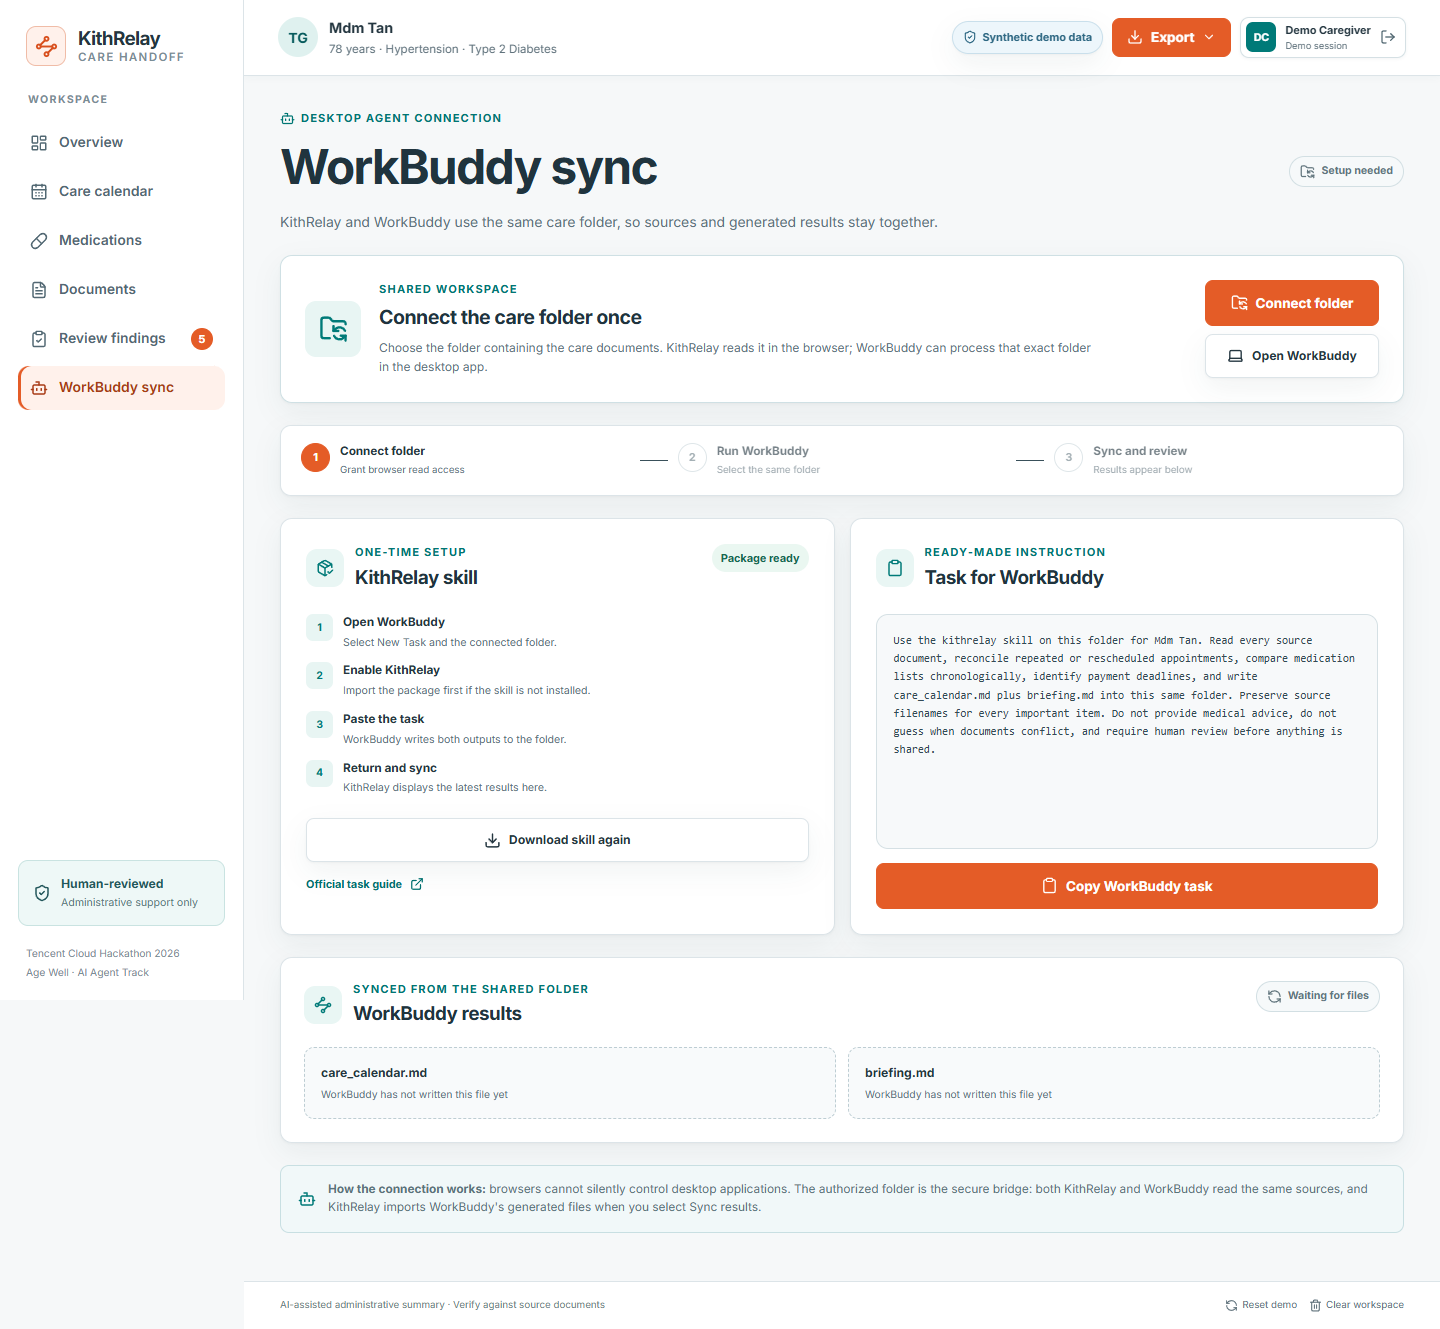
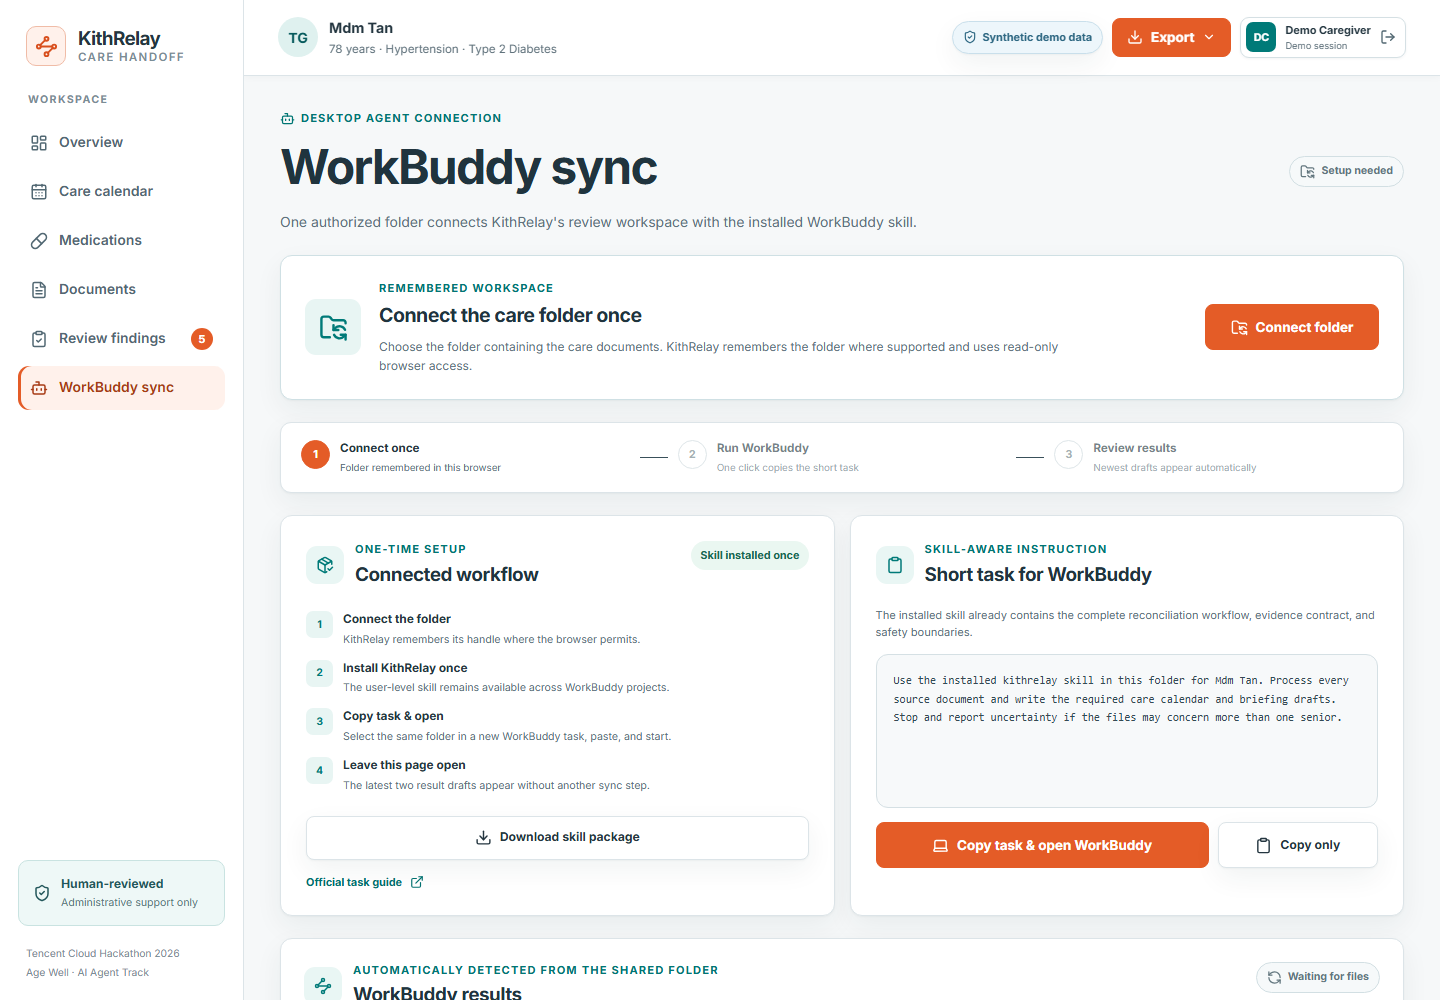
docs: align submission kit with auto sync

diff --git a/submission/PRESENTATION_PROMPT.md b/submission/PRESENTATION_PROMPT.md
@@ -6,7 +6,7 @@ Upload these files to ChatGPT together with this prompt:
 
 1. `assets/01-login.png`
 2. `assets/02-overview.png`
-3. `assets/03-workbuddy-sync.png`
+3. `assets/03-workbuddy-sync.png` — refresh this after deployment so the remembered-folder and auto-sync states are visible
 4. `assets/04-review-findings.png`
 5. `assets/05-mobile-overview.png`
 6. One real screenshot of the KithRelay skill enabled in WorkBuddy Desktop
@@ -49,14 +49,14 @@ SOURCE-OF-TRUTH PRODUCT FACTS
 - KithRelay helps a family caregiver reconcile one ageing relative’s fragmented appointment letters, dated medication lists, profile notes, and payment notices.
 - The WorkBuddy skill inventories every authorized file, checks that the folder concerns one senior, classifies readable files, extracts source-linked facts, reconciles repeated/rescheduled appointments, compares medication lists chronologically, extracts payment deadlines, runs a final evidence check, and writes exactly two review drafts: care_calendar.md and briefing.md.
 - The skill does not diagnose, prescribe, recommend treatment, silently resolve uncertainty, contact third parties, or change calendars without explicit approval.
-- The browser application provides account access, synthetic demo data, document review, deterministic reconciliation, evidence drawers, a human-review lock, exports, and WorkBuddy result syncing.
-- WorkBuddy and the website connect through one caregiver-authorized shared folder. There is no claim that WorkBuddy is embedded in the browser.
+- The browser application provides account access, synthetic demo data, document review, deterministic reconciliation, evidence drawers, a human-review lock, exports, remembered-folder permission, and automatic WorkBuddy result detection while the page is open.
+- WorkBuddy and the website connect through one caregiver-authorized shared folder. The website requests read-only access, stores the folder handle in browser IndexedDB where supported, rechecks permission after reload, and checks for new results every five seconds in a visible tab. There is no claim that WorkBuddy is embedded in the browser.
 - WorkBuddy performs the agentic folder task. The web application is the reliable review and explanation layer.
 - Prototype website accounts are browser-local, not production cloud authentication.
 - Selected website files are processed in browser memory. WorkBuddy has separate cloud-processing terms.
 - The public demo uses seven synthetic Mdm Tan source documents. Never imply that real patient records were used.
 - The tested scenario produces one active Cardiology appointment on 22 Aug 2026, superseding 15 Aug 2026; identifies Amlodipine changing from 5 mg to 10 mg; identifies Vitamin D3 1000 IU as newly listed; records Panadol as explicitly discontinued; finds an SGD 30.00 payment due on 19 Aug 2026; and keeps every finding linked to its source filename.
-- The repository currently has 11 passing automated tests covering account gating, appointment merging, medication changes, uncertainty, mixed-patient detection, payment extraction, evidence links, briefing generation, and human-review controls.
+- The repository currently has 15 passing automated tests covering account gating, appointment merging, medication changes, uncertainty, mixed-patient detection, payment extraction, evidence links, briefing generation, human-review controls, workspace output filtering, timestamped-draft selection, and folder permission recovery.
 
 VERIFIED EXTERNAL EVIDENCE
 Use only these supplied facts, with a small source footnote on the relevant slide:
@@ -77,6 +77,7 @@ DO NOT INVENT OR CLAIM
 - Do not claim fully local or on-device WorkBuddy processing.
 - Do not claim cloud-synced user accounts.
 - Do not claim a direct WorkBuddy browser API.
+- Do not claim event-driven filesystem watching, unattended background operation, a custom button inside WorkBuddy, or automatic task initiation. KithRelay polls only while the page is open, and the caregiver still starts the WorkBuddy task.
 - Do not claim “four parallel agents,” multi-agent execution, OCR of every image, Telegram automation, subsidy matching, family-message sending, or automatic calendar changes. Those ideas appeared in early planning but are not proven by the current build.
 - Do not fabricate testimonials, quotations, awards, screenshots, interface states, citations, logos, or metrics.
 - Do not display real NRICs, phone numbers, addresses, medical record numbers, or patient data.
@@ -165,7 +166,7 @@ Draw an accurate three-layer architecture:
 Layer 1 — Caregiver-authorized folder: synthetic appointment, medication, profile, and bill documents.
 Layer 2A — Tencent WorkBuddy + KithRelay skill: autonomous folder processing and two Markdown outputs.
 Layer 2B — Deterministic browser engine: immediate reconciliation and regression-tested fallback/review layer.
-Layer 3 — KithRelay web application: evidence display, WorkBuddy result sync, human review, and export.
+Layer 3 — KithRelay web application: remembered read-only folder permission, five-second latest-draft checks while open, evidence display, human review, and export.
 Show the shared folder as the bridge; do not draw a nonexistent direct API.
 Use `03-workbuddy-sync.png` as a supporting visual.
 Add a small tools strip: Tencent WorkBuddy (core agent), React + TypeScript, Vite, Vercel, automated tests.
@@ -181,7 +182,7 @@ Build a concise evidence table with five rows:
 - New listing: Vitamin D3 1000 IU appears in July.
 - Explicit stop: Panadol marked discontinued; not inferred from absence.
 - Payment: SGD 30.00 due 19 Aug 2026; bill cited.
-Add a proof badge: “11 automated tests passing.”
+Add a proof badge: “15 automated tests passing.”
 Do not add accuracy percentages.
 Speaker note objective: Show cross-document reasoning, source traceability, and repeatable technical validation.
 Rubric role: Project Quality + Use of AI Tools.
@@ -218,13 +219,13 @@ Headline: Every care detail, carried forward—with its source.
 Use a simple 40 / 30 / 30 recap:
 - 40 AI tools: WorkBuddy autonomously processes an authorized folder and writes traceable artifacts.
 - 30 impact: reduces invisible administrative load around ageing and family care.
-- 30 quality: deployed responsive product, installable skill, shared-folder sync, human review, exports, and 11 passing tests.
+- 30 quality: deployed responsive product, installable skill, remembered shared-folder connection, automatic result detection, human review, exports, and 15 passing tests.
 Place a QR code and readable URL for https://kithrelay.vercel.app/ plus the GitHub link and Skill ZIP availability.
 End with: “KithRelay supports the caregiver. The caregiver stays in control.”
 Speaker note objective: Give judges one memorable sentence and direct them to the working product.
 
 APPENDIX SLIDES
-A. Technical validation: list the 11 test behaviors, supported browser file types, and known limitations.
+A. Technical validation: summarize the 15 passing tests, supported browser file types, Chrome/Edge folder-handle support, five-second visible-tab polling, permission-reconnect behavior, and the manual WorkBuddy task-start limitation.
 B. Sources and disclosures: full URLs for Duke-NUS and WorkBuddy documentation; synthetic-data disclosure; administrative-only statement.
 
 SPEAKER NOTES

diff --git a/submission/VIDEO_PROMPTS.md b/submission/VIDEO_PROMPTS.md
@@ -26,9 +26,9 @@ Record manually:
 2. Choosing **Explore the demo instantly**.
 3. Navigating Overview → Documents → Review findings → WorkBuddy sync.
 4. Selecting a clean copy of the synthetic `fixtures/mdm-tan` folder.
-5. Opening WorkBuddy Desktop, selecting the same folder, enabling KithRelay, and starting the prepared task.
+5. Clicking **Copy task & open WorkBuddy**, selecting the same folder in WorkBuddy Desktop, pasting the copied short task, and starting the installed KithRelay skill.
 6. WorkBuddy visibly reading files, showing execution progress, and creating `care_calendar.md` plus `briefing.md`.
-7. Returning to KithRelay and choosing **Sync results**.
+7. Returning to KithRelay and recording the two drafts appearing automatically within the five-second check window. Keep a separate take of **Check now** only as a fallback.
 8. Reviewing source-linked findings and exporting a care calendar or briefing.
 
 ## Recording safety checklist
@@ -43,6 +43,8 @@ Record manually:
 - Let WorkBuddy complete a real run before editing. Do not fake execution progress.
 - If a live step is slow, use a labelled time compression such as **“Processing condensed for time”** rather than pretending it was instantaneous.
 - Verify the generated facts before recording the final result.
+- Keep KithRelay open during the WorkBuddy run because automatic folder checks occur only in a visible page.
+- If browser permission has expired, record the real **Reconnect folder** step rather than implying unattended access.
 
 ## Master visual prompt for Gemini-generated clips
 
@@ -178,14 +180,15 @@ Use the uploaded screenshot as an exact immutable pixel reference. Do not redraw
 **Capture:**
 
 1. Open **WorkBuddy sync**.
-2. Click **Connect folder**.
-3. Select the synthetic `KithRelay-Demo` folder.
-4. Show the connected state.
-5. Copy the prepared WorkBuddy task.
-6. Click **Open WorkBuddy** if the desktop protocol opens cleanly; otherwise cut manually to WorkBuddy.
+2. For the first-use take, click **Connect folder** and select the synthetic `KithRelay-Demo` folder. For a second take after refresh, show the truthful remembered or reconnect-permission state.
+3. Pause on **Auto-sync active** and the message that KithRelay checks every five seconds while the page is open.
+4. Click **Copy task & open WorkBuddy**. The button copies the concise task and launches the registered desktop protocol in one user action.
+5. If the desktop protocol confirmation appears, accept it on camera or cut cleanly to the already-open WorkBuddy window.
 
-**Editor-added diagram:** `Website ↔ authorized folder ↔ WorkBuddy`  
-**Voiceover:** “The browser and desktop agent connect through one caregiver-authorized folder. The website reviews it; WorkBuddy processes that same workspace.”
+**Editor-added diagram:** `Website review ↔ read-only authorized folder ↔ WorkBuddy task`
+
+**Editor-added micro-label:** `Remembered where supported · Permission remains user-controlled`
+**Voiceover:** “The browser and desktop agent share one caregiver-authorized folder. KithRelay remembers the connection where supported, copies the short task, and opens WorkBuddy without claiming a hidden API.”
 
 ### Clip 7 — WorkBuddy autonomous execution
 
@@ -226,11 +229,11 @@ Use the uploaded screenshot as an exact immutable pixel reference. Do not redraw
 1. In WorkBuddy or the folder, show `care_calendar.md` and `briefing.md` exist.
 2. Open one briefly and show the verification notice.
 3. Return to KithRelay.
-4. Click **Sync results**.
-5. Expand one result preview in the website.
+4. Keep the cursor still and record the status changing from **Waiting for files** to **2 of 2 ready** within the real five-second check window.
+5. Expand one result preview in the website and show the detected filename. If automatic detection does not occur during the take, use **Check now** and label it `Manual fallback`.
 
 **Editor-added text:** `care_calendar.md + briefing.md`  
-**Voiceover:** “The agent writes a care calendar and next-visit briefing into the same folder. One click syncs both results back into KithRelay for review.”
+**Voiceover:** “The agent writes a care calendar and next-visit briefing into the same folder. While the page is open, KithRelay detects the newest drafts automatically and brings them back for review.”
 
 ### Clip 9 — Caregiver stays in control
 
@@ -299,11 +302,11 @@ Seven synthetic documents become one current timeline. KithRelay keeps the new a
 
 This is not a black-box summary. Every important change links back to the exact source files, and approval stays locked until a caregiver reviews the evidence.
 
-The browser and desktop agent connect through one caregiver-authorized folder. The website reviews it; WorkBuddy processes that same workspace.
+The browser and desktop agent share one caregiver-authorized folder. KithRelay remembers the connection where supported, copies the short task, and opens WorkBuddy without claiming a hidden API.
 
 Inside WorkBuddy, the KithRelay skill defines the goal and safety boundaries. WorkBuddy plans the folder task, invokes file operations, reconciles evidence across documents, checks traceability, and writes two review drafts.
 
-The agent writes a care calendar and next-visit briefing into the same folder. One click syncs both results back into KithRelay for review.
+The agent writes a care calendar and next-visit briefing into the same folder. While the page is open, KithRelay detects the newest drafts automatically and brings them back for review.
 
 KithRelay never makes the care decision. The caregiver verifies important details first, then exports a plan that stays attached to its sources.
 
@@ -326,11 +329,13 @@ Assemble the supplied clips into a 16:9, 1920x1080, approximately 110-second doc
 - KithRelay spelling and URL are correct in every title and caption.
 - At least 60% of the runtime is real product or WorkBuddy footage.
 - The WorkBuddy task shown is a real completed run using the synthetic fixture folder.
+- The automatic result-detection shot is a real continuous capture, not an edited status change.
 - No unsupported feature or impact claim appears.
 - No generated clip contains legible fake paperwork or UI.
 - The 33-hour statistic is attributed to Duke-NUS, 2024.
 - “Synthetic demo data” is visible or stated.
 - Human review and the administrative-only boundary are visible.
+- The video never implies event-driven background watching, automatic WorkBuddy task initiation, or fully local AI processing.
 - The video is under 2 minutes.
 - Captions remain inside title-safe margins on both desktop and mobile playback.
 - Voiceover is understandable without music; captions make it understandable without sound.

diff --git a/README.md b/README.md
@@ -17,16 +17,17 @@ The public demo includes a synthetic care story and requires no real patient inf
 - Links every important finding to its original source document.
 - Requires caregiver review before the administrative plan is approved or shared.
 - Exports a care calendar, next-appointment briefing, and evidence bundle.
-- Connects the browser workspace with the KithRelay skill in WorkBuddy Desktop.
+- Remembers an authorized care folder in supported browsers and reconnects it with user permission.
+- Detects the latest WorkBuddy calendar and briefing drafts automatically while the website is open.
 
 ## Using the website
 
 1. Open the [live application](https://kithrelay.vercel.app/).
 2. Create a browser-local caregiver account, sign in, or choose **Explore the demo instantly**.
 3. Review the included synthetic scenario, upload individual files, or select **WorkBuddy sync**.
-4. Choose **Connect folder** and grant access to the folder containing the care documents.
-5. Open WorkBuddy, select that same folder, enable the KithRelay skill, and paste the prepared task.
-6. Return to KithRelay and choose **Sync results** to display `care_calendar.md` and `briefing.md` inside the website.
+4. Choose **Connect folder** and grant read-only access to the folder containing the care documents. Chrome or Edge can remember the folder handle for later visits.
+5. Choose **Copy task & open WorkBuddy**, create a task in that same folder, paste the copied instruction, and start the installed KithRelay skill.
+6. Leave KithRelay open. It checks every five seconds and displays the newest `care_calendar*.md` and `briefing*.md` drafts automatically. **Check now** remains available as a fallback.
 
 ## How WorkBuddy connects
 
@@ -36,16 +37,19 @@ WorkBuddy is a desktop agent and does not publish a browser-embed API. KithRelay
 Care folder → KithRelay browser review
            → WorkBuddy + KithRelay skill
            → care_calendar.md + briefing.md
-           → KithRelay Sync results
+           → KithRelay automatic result detection
 ```
 
-This follows WorkBuddy's documented task model: choose a working directory, let the agent read and write within it, and review the resulting artifacts. The website can also launch an installed Windows copy of WorkBuddy through its registered `workbuddy-ai://` desktop link.
+This follows WorkBuddy's documented task model: choose a working directory, let the agent read and write within it, and review the resulting artifacts. The website can also copy the concise task and launch an installed Windows copy of WorkBuddy through its registered `workbuddy-ai://` desktop link.
+
+The browser connection is intentionally transparent rather than a claimed direct API. Folder handles are stored in browser IndexedDB when supported, permission is rechecked after reload, and visible tabs poll for updated artifacts every five seconds. KithRelay recognizes both the standard output names and timestamped drafts preserved by repeat WorkBuddy runs.
 
 ## Account and privacy model
 
 - Prototype accounts use a salted password hash stored only in the current browser.
 - The signed-in session lasts for the current browser tab.
 - Selected care documents are processed in browser memory and are not uploaded by KithRelay.
+- Folder access is read-only and can be removed with **Clear workspace**.
 - WorkBuddy has separate cloud-processing terms when it processes the shared folder.
 - KithRelay provides administrative organization, not diagnosis or medical advice.
 
@@ -54,12 +58,12 @@ This follows WorkBuddy's documented task model: choose a working directory, let 
 | Part | Role |
 |---|---|
 | KithRelay web application | Account access, document review, reconciliation, evidence display, approval, and exports |
-| Shared-folder connection | Moves selected sources and WorkBuddy results through one caregiver-authorized workspace |
+| Shared-folder connection | Remembers permission, monitors the open workspace, and imports the newest WorkBuddy drafts |
 | KithRelay WorkBuddy skill | Gives the desktop agent its workflow, output contract, and safety boundaries |
 | Deterministic reconciliation engine | Powers the fast browser demo and automated regression coverage |
 | Synthetic Mdm Tan scenario | Demonstrates appointment, medication, and payment reconciliation safely |
 
-The importable skill is available in `workbuddy-skill/kithrelay` and from the website's **WorkBuddy sync** page.
+The importable skill is available in `workbuddy-skill/kithrelay` and from the website's **WorkBuddy sync** page. Folder reconnection requires a user gesture when the browser expires permission, and automatic checking only runs while the website is open.
 
 ## Presentation and video kit
 
